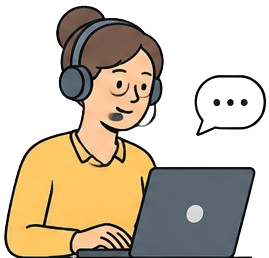
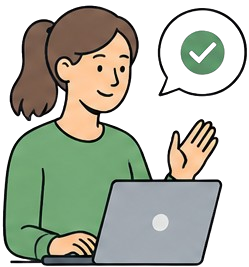
update pictures

diff --git a/src/components/shared/ServiceLayout.tsx b/src/components/shared/ServiceLayout.tsx
@@ -118,7 +118,7 @@ export function ServiceLayout({
     <>
       {/* Section 1: Hero */}
       <section className="relative bg-[#F3F4FA] overflow-hidden">
-        <div className="max-w-7xl mx-auto px-6 sm:px-8 lg:px-10 py-16 sm:py-32 lg:py-40">
+        <div className="max-w-7xl mx-auto px-6 sm:px-8 lg:px-10 pt-16 sm:pt-32 lg:pt-40 pb-8 sm:pb-12 lg:pb-16">
           <div className="grid grid-cols-1 lg:grid-cols-2 gap-12 lg:gap-16 items-center">
             {/* Left: Content */}
             <div className="space-y-6">
@@ -144,13 +144,13 @@ export function ServiceLayout({
 
             {/* Right: Illustration */}
             <div className="flex justify-center lg:justify-center lg:-ml-8">
-              <div className="relative w-80 h-80 sm:w-[500px] sm:h-[500px]">
+              <div className="relative w-80 h-80 sm:w-[550px] sm:h-[550px]">
                 <Image
                   src={heroImage}
                   alt={title}
-                  width={400}
-                  height={400}
-                  className="relative z-10 w-full h-full object-contain p-8"
+                  width={500}
+                  height={500}
+                  className="relative z-10 w-full h-full object-contain"
                   priority
                 />
               </div>
@@ -160,7 +160,7 @@ export function ServiceLayout({
       </section>
 
       {/* Section 2: Outsourced Solutions - Alternating Content */}
-      <section className="bg-[#F3F4FA] py-10 sm:py-20 lg:py-24">
+      <section className="bg-[#F3F4FA] pt-4 sm:pt-8 lg:pt-12 pb-10 sm:pb-20 lg:pb-24">
         <div className="max-w-7xl mx-auto px-6 sm:px-8 lg:px-10">
           <div className="text-center mb-16">
             <h2
